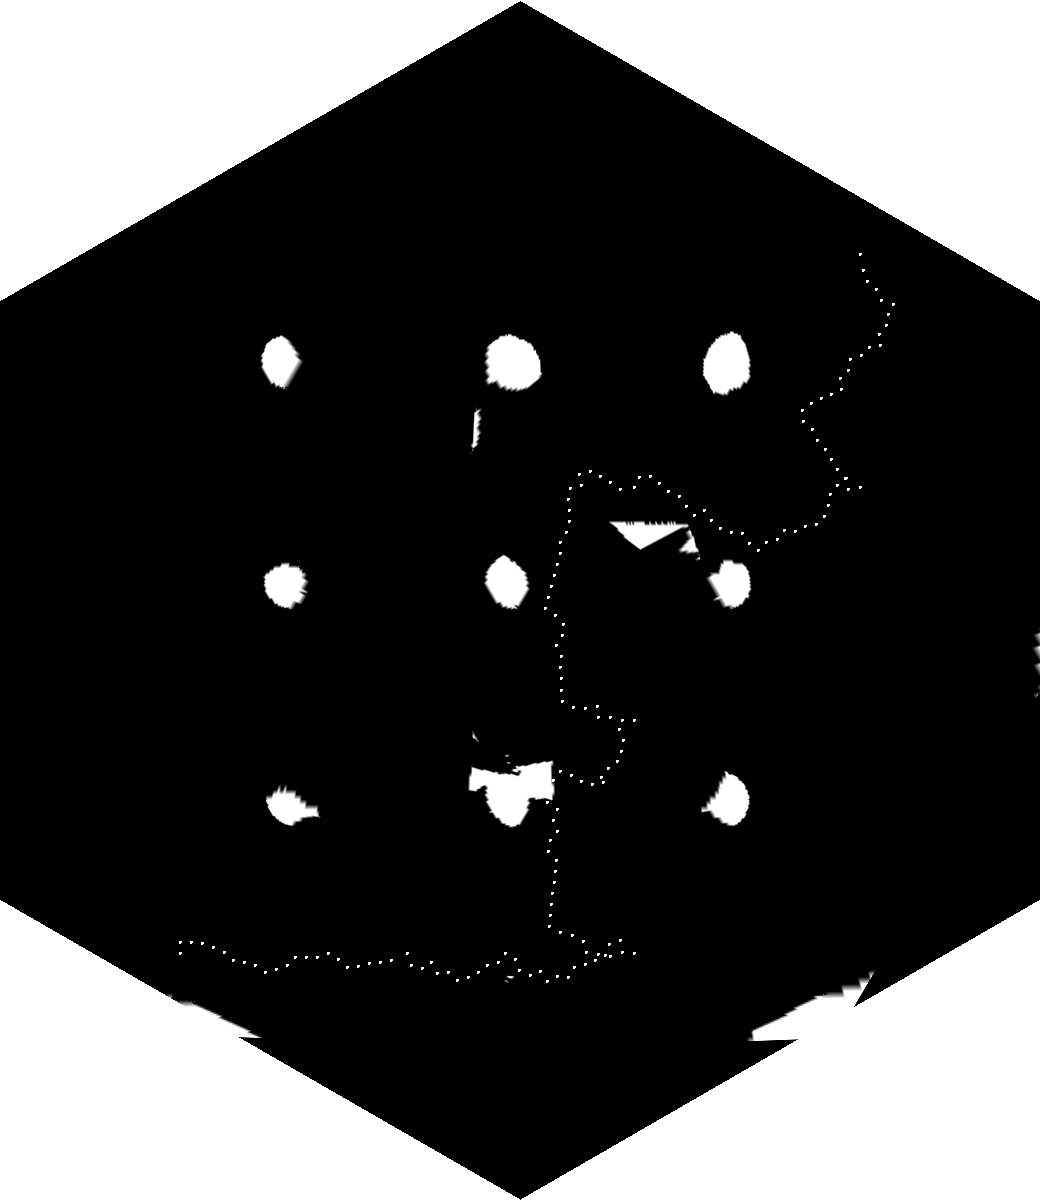
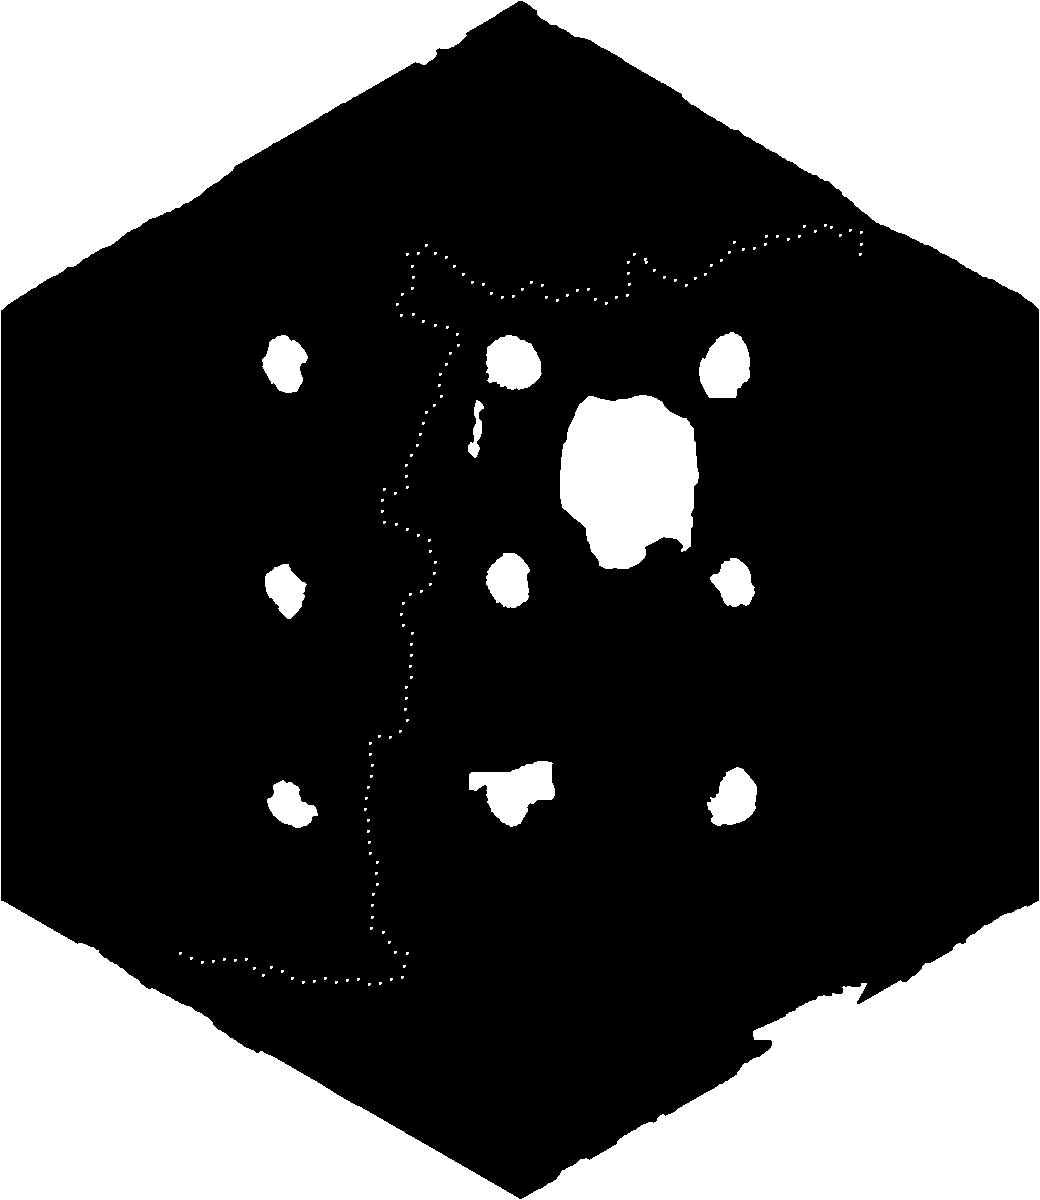
planning end

diff --git a/pp/path_planning/src/planning.cpp b/pp/path_planning/src/planning.cpp
@@ -16,9 +16,9 @@
 
 #define pixel_distance 0.005
 #define random_distance 0.06
-#define choose_parent_and_rewire_distance 0.1
-#define obstacle_check_distance 0.06
-#define goal_point_reach_distance 0.1
+#define choose_parent_and_rewire_distance 0.8
+#define obstacle_check_distance 0.1
+#define goal_point_reach_distance 0.08
 
 using namespace std;
 
@@ -32,7 +32,7 @@ struct Point {
 
     int cost = -1;
     double ccost = 0;
-    int obstacle = 0;
+    int obstacle = 0; 
 
     Point* next_point[4];
     Point* parrent_point = NULL;
@@ -209,7 +209,7 @@ class Planning{
         }
 
         void read_map(){
-            cv::Mat img = cv::imread("/home/jeongwoooh/catkin_ws/src/zero_maker/computer_vision/global_map_generator/global_map.png", CV_LOAD_IMAGE_GRAYSCALE);
+            cv::Mat img = cv::imread("/home/lee/catkin_ws/src/zero_maker/computer_vision/global_map_generator/global_map_color_mask.png", CV_LOAD_IMAGE_GRAYSCALE);
             if (!img.empty()){
                 //cv::imshow("img", img);
                 //cv2::waitKey(0);
@@ -309,7 +309,7 @@ class Planning{
         void calculate_global_path(){
 
             int current_cost = 0;
-
+            global_points[10].obstacle = 1;
             while (global_points[goal_point_index].cost == -1){
                 //global_points[goal_point_index].cost = 0;
                 for (int i = 0; i < 16; ++i){
@@ -361,8 +361,10 @@ class Planning{
         void StartGoalObstaclePointCallback (const nav_msgs::OccupancyGrid & msg){
 
             for (int i = 0; i < 16; ++i){
-                global_points[i].obstacle = msg.data[i]; 
+                //global_points[i].obstacle = msg.data[i]; 
+                global_points[i].obstacle = 0; 
             }
+            global_points[10].obstacle = 1; 
             
         }
 
@@ -384,7 +386,7 @@ class Planning{
                 check = 1;
             }
 
-            cv::Mat img = cv::imread("/home/jeongwoooh/catkin_ws/src/zero_maker/computer_vision/global_map_generator/global_map.png", CV_LOAD_IMAGE_GRAYSCALE);
+            cv::Mat img = cv::imread("/home/lee/catkin_ws/src/zero_maker/computer_vision/global_map_generator/global_map_color_mask.png", CV_LOAD_IMAGE_GRAYSCALE);
 
             for (int i = 0; i < total_path.size(); ++i){
                 cout << total_path[i].pixel_x << " " << total_path[i].pixel_y << " "  << total_path[i].ccost << endl;
@@ -409,7 +411,7 @@ class Planning{
                 //msg.poses.push_back(p);
             }
 
-            cv::imwrite("/home/jeongwoooh/catkin_ws/src/zero_maker/computer_vision/global_map_generator/path.png", img);
+            cv::imwrite("/home/lee/catkin_ws/src/zero_maker/computer_vision/global_map_generator/path.png", img);
 
             //path_pub.publish(msg);
 /*
